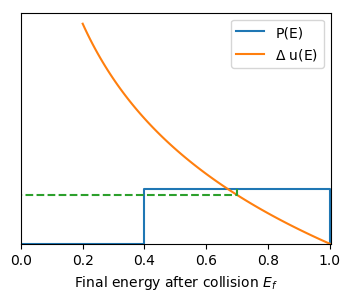
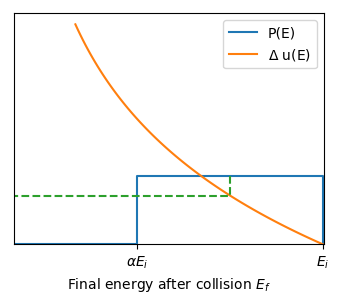
Finalized the scripts for making all figures.

Changed region(s): [[0.0295, 0.0299, 0.9735, 0.9867], [0.3835, 0.3588, 0.531, 0.5382], [0.6785, 0.1495, 0.767, 0.2093]]

diff --git a/NeutronCollisionMisconception.tex b/NeutronCollisionMisconception.tex
@@ -106,7 +106,7 @@ https://github.com/OceanNuclear/NeutronLethargy
 	
 	*Insert Figure 3
 	
-	The lethargy of the average average energy (green dotted line) is used instead.. This leads to a higher
+	The lethargy of the average average energy (green dotted line) is used instead.
 
 	This will give an incorrect answer because the average $E_f$ as determined by the rectangular area is different from the average as determined by the area under the curve $ \Delta u P(E)$ (product of the two solid curves drawn).
 
@@ -117,7 +117,14 @@ https://github.com/OceanNuclear/NeutronLethargy
 	This means that a collision losing slightly more than $\overline{E}$ requires multiple collision losing slightly less energy than $\overline{E}$ to counter its effect.
 	This problem is actually a confusion between arithematic mean (section \ref{Incorrect}) and geometric mean (section \ref{Correct}) in disguise. The former method falsely assumes that an arithmatic mean can be done, finding the arithmatic average of the energy lost $\Delta E = E_i-E_f$, instead of the geometric average of $\Delta E$ (which is identical to the arithmetic average of $\Delta u$).
 
+\section{Physical intuition}
+	A more obvious way of seein ghow this works is by looking at the following thought experiment:
+
+	If all neutrons collide to lose exactly the amount of energy as in figure \ref{Fig3}, then the lethargy lost calculated by both methods in section \ref{Incorrect} and \ref{Correct} will be the same.
+
+	But if the
+
 \section{Acknowledgement}
-	Many thanks to Sam Dyson for his helpful input in discussing and assisting the formulation of this article.
+	Many thanks to Sam Dyson for his insight and discussion on this topic, as well as providing the inspiration for the last section.
 
 \end{document}

diff --git a/IllustrationPlotters.py b/IllustrationPlotters.py
@@ -3,12 +3,13 @@ from numpy import cos, arccos, sin, arctan, tan, pi, sqrt; from numpy import arr
 from matplotlib import pyplot as plt
 
 alpha=0.4
+height = 0.5
 
 x=np.linspace(alpha,1)
 #Create the square distribution
 fig,ax = plt.subplots()
 x_rect=np.concatenate([[0,alpha],x,[1]])
-y=alpha*(x-x+1)#hack to make y=alpha with the same shape of x, quickly.
+y=height*(x-x+1)#hack to make y=alpha with the same shape of x, quickly.
 y_rect=np.concatenate([[0,0],y,[0]])
 
 Figure = "Fig3"
@@ -49,14 +50,17 @@ if Figure=="Fig3":
 	midpt=(alpha+1)/2
 	if "Dotted line":
 		xdot=[midpt]
-		ydot=[0.4]
+		ydot=[height]
 		xdot.append(midpt)
 		ydot.append(np.log(1/midpt))
 		xdot.append(0)
 		ydot.append(np.log(1/midpt))
 	ax.plot(xdot,ydot, linestyle="--")
-	ax.set_xlim(0,1.004)
+	ax.set_xlim(0,1.002)
 	ax.set_xlabel(r"Final energy after collision $E_f$")
+	ax.set_xlabel(r"Final energy after collision $E_f$")
+	ax.set_xticks([alpha,1])
+	ax.set_xticklabels([r"$\alpha E_i$",r"$E_i$"])
 
 #set y axes, legend, and save.
 ax.set_ylim(bottom=0)
